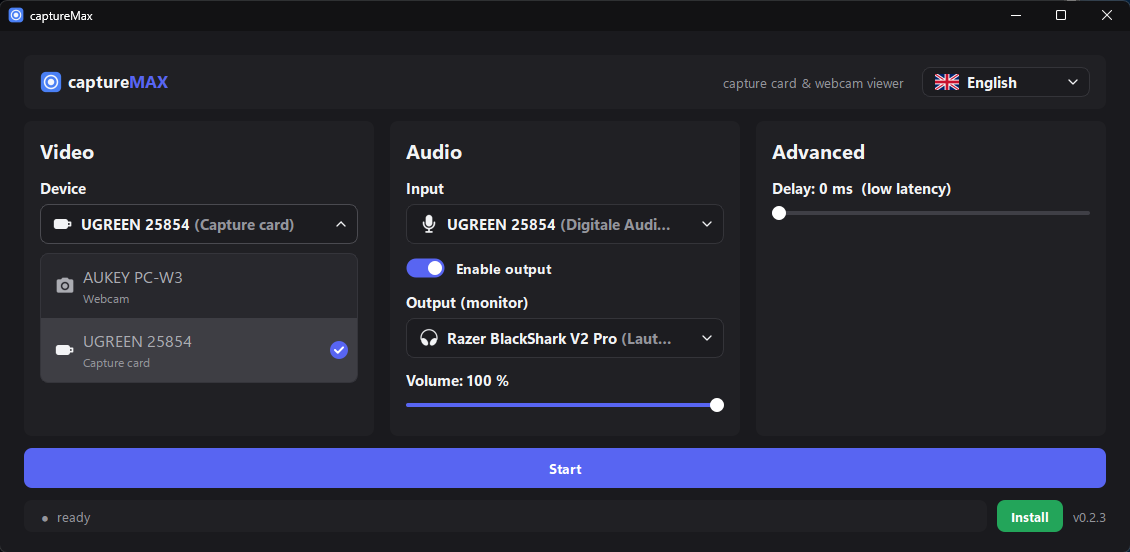
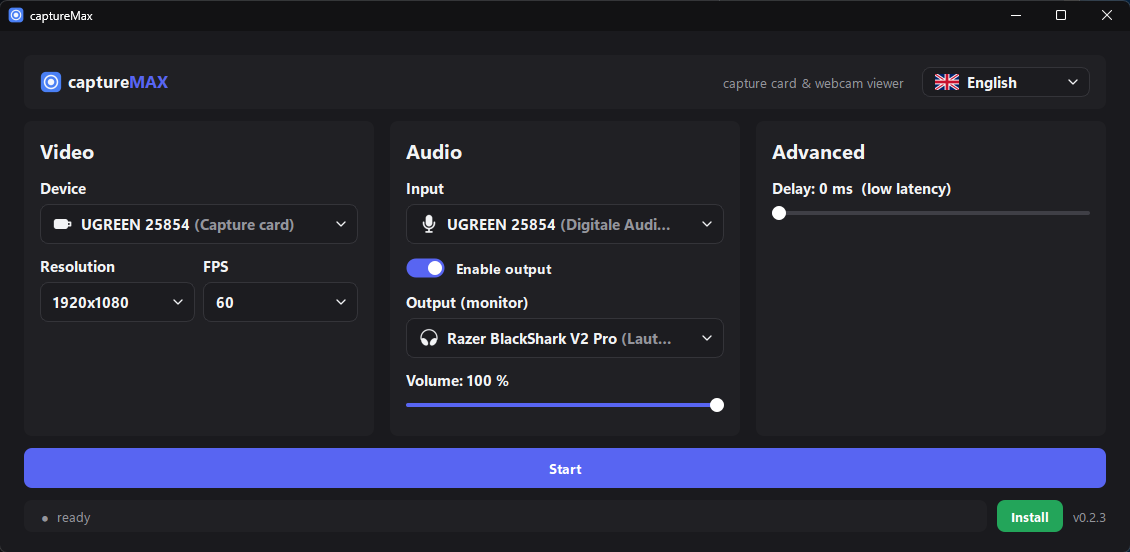
README: settings screenshot with closed dropdowns, device picker as its own image

Changed region(s): [[0.031, 0.462, 0.3407, 0.7083], [0.1858, 0.462, 0.2168, 0.4928]]

diff --git a/README.md b/README.md
@@ -4,7 +4,9 @@
 
 <p align="center">Low-latency live viewer for capture cards and webcams on Windows, macOS and Linux. No OBS, no VLC, one app.</p>
 
-![captureMax settings window with the device picker open](docs/screenshot.png)
+![captureMax settings window](docs/screenshot.png)
+
+![captureMax settings window with the device picker open](docs/picker.png)
 
 ![captureMax live view with Discord-style controls, volume bar and quality badge](docs/live.png)
 
